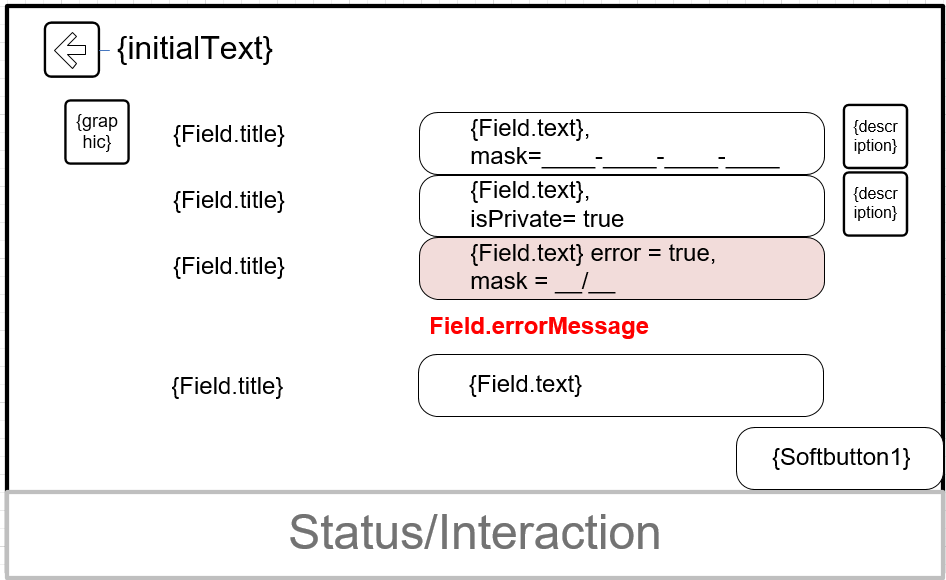
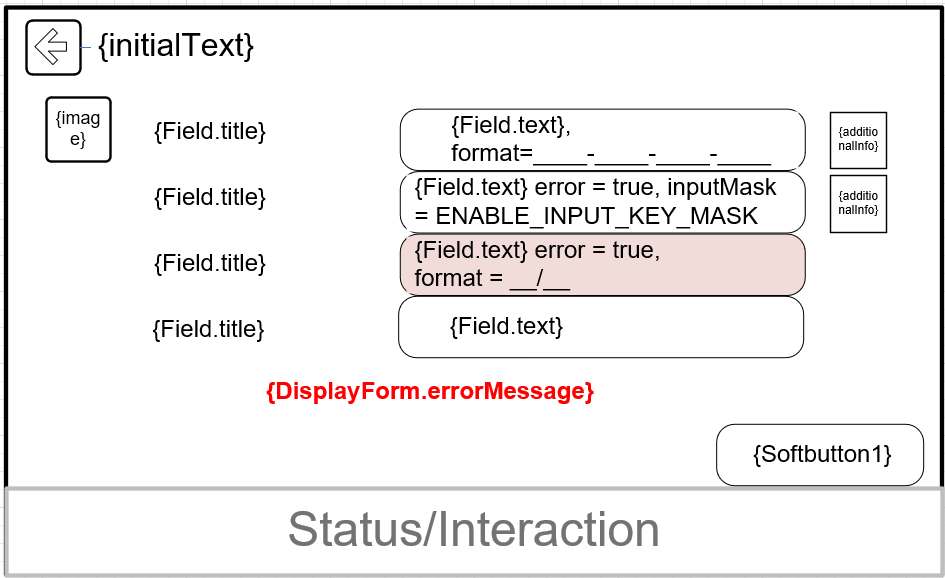
Fix 0307 conflicts (#1079)
* Update 0250-NextRpcIndication.md

* Update 0250-NextRpcIndication.md

* Add files via upload

* Add files via upload

* Add files via upload

* Overhaul per forum comments

* Spellcheck

* Update 0250-NextRpcIndication.md

* Apply suggestions from code review

Theresa updates

* Swtich from getinput to displayform

* Update 0307-GetInputScreen.md

* Update 0307-GetInputScreen.md

* Add files via upload

* Add files via upload

* Add files via upload

* Add files via upload

* Delete GetInput-1-2.PNG

* Add files via upload

* Add files via upload

* Add files via upload

* Add files via upload

* Update 0307-GetInputScreen.md

* Update 0307-GetInputScreen.md

* Update 0307-GetInputScreen.md

* added imagefieldname and textfieldname

* Update 0307-GetInputScreen.md

* Update 0307-GetInputScreen.md

* Update 0307-GetInputScreen.md

* Update 0307-GetInputScreen.md

* Update 0307-GetInputScreen.md

* Add files via upload

* Update 0307-GetInputScreen.md

* Update 0307-GetInputScreen.md

* Textfield name update

* Update 0307-GetInputScreen.md

* Update 0307-GetInputScreen.md

* SetGlobalProperties update

* Fixed mandatory but min array size 0

* minsize

* Update 0307-GetInputScreen.md

* Adding sentence to mask input characters

* Added fields to response

* Update 0307-GetInputScreen.md

* added ui.

* Update 0307-GetInputScreen.md

* Added another downside
[…]

diff --git a/proposals/0307-GetInputScreen.md b/proposals/0307-GetInputScreen.md
@@ -2,12 +2,12 @@
 
 * Proposal: [SDL-0307](0307-GetInputScreen.md)
 * Author: [Michael Crimando](https://github.com/MichaelCrimando)
-* Status: **Returned for Revisions**
+* Status: **In Review**
 * Impacted Platforms: [HMI / Core / iOS / Java Suite / JavaScript / RPC]
 
 ## Introduction
 
-This proposal adds an Input screen for apps. This enables a way for the user to sign in, put in their credit card information, put in their address and more. This is particularly focused on embedded/cloud apps because the app lives in the car and the user will still need a way to enter information without having the ability to do so on their phone.
+This proposal adds an Form screen for apps. This enables a way for the user to sign in, put in their credit card information, put in their address and more. This is particularly focused on embedded/cloud apps because the app lives in the car and the user will still need a way to enter information without having the ability to do so on their phone.
 
 ## Motivation
 
@@ -31,9 +31,9 @@ Here's more specific potential screens
 Add a new RPC for an input screen. This screen would use RPC encryption which is handled by policies.
 It contains a title, and an array of `InputLines`
 
-
+Here's the `MOBILE_API`:
 ```xml
-<function name="GetInput" functionID="GetInputID" messagetype="request" since="X.X">
+<function name="DisplayForm" functionID="DisplayFormID" messagetype="request" since="X.X">
   <param name="initialText" type="String" maxlength="500"  mandatory="true">
     <description>
       Text to be displayed first.
@@ -44,9 +44,31 @@ It contains a title, and an array of `InputLines`
       If there's a problem with the input fields, this can be used to display information.
     </description>
   </param>
-  <param name="fields" type="Common.Field" array="true" minsize="0" maxsize="100" mandatory="true">\
+  <param name="fields" type="Field" array="true" minsize="1" maxsize="100" mandatory="true">\
   </param>
-    <param name="softButtons" type="Common.SoftButton" minsize="0" maxsize="8" array="true" mandatory="false">
+    <param name="softButtons" type="SoftButton" minsize="1" maxsize="8" array="true" mandatory="false">
+    <description>
+      App defined SoftButtons for cancel, edit, submit, etc.
+    </description>
+  </param>
+</function>
+```
+and the `HMI_API`:
+```xml
+<function name="UI.DisplayForm" functionID="DisplayFormID" messagetype="request">
+  <param name="initialText" type="String" maxlength="500"  mandatory="true">
+    <description>
+      Text to be displayed first.
+    </description>
+  </param>
+  <param name="errorMessage" maxlength="500" type="String" mandatory="false">
+    <description>
+      If there's a problem with the input fields, this can be used to display information.
+    </description>
+  </param>
+  <param name="fields" type="Common.Field" array="true" minsize="1" maxsize="100" mandatory="true">\
+  </param>
+    <param name="softButtons" type="Common.SoftButton" minsize="1" maxsize="8" array="true" mandatory="false">
     <description>
       App defined SoftButtons for cancel, edit, submit, etc.
     </description>
@@ -54,18 +76,22 @@ It contains a title, and an array of `InputLines`
 </function>
 ```
 
-Add a new struct called `Field` and an enum called `FieldType` to get user input in the GetInput screen.
-This enables text input fields, numeric input fields and combo box input fields.  Text and numeric input fields would bring up a keyboard or numpad. Combo box input would bring up a drop down list of items.  
+
+
+Add a new struct called `Field` and an enum called `FieldType` to get user input in the DisplayForm screen.
+This enables text input fields, numeric input fields and combo box input fields.  Text and numeric input fields would bring up a keyboard or numpad. Combo box input would bring up a drop down list of items. If a combo box is requested, and the user doesn't pick anything, the HMI will send back the field.text and then it's up to the app on what to do.
+
+Here's the MOBILE_API:
 ```xml
 <struct name="Field">
   <description>
     A single field for data input
   </description>
-  <param name="type" type="Common.FieldType" mandatory="true">
+  <param name="type" type="FieldType" mandatory="true">
   </param>
   <param name="label" maxlength="500" type="String" mandatory="true">
   </param>
-  <param name="image" type="Common.Image" mandatory="false">
+  <param name="image" type="Image" mandatory="false">
     <description>
       An image icon for the input field
     </description>
@@ -90,7 +116,7 @@ This enables text input fields, numeric input fields and combo box input fields.
       If set to true, then the field has some problem with it and the HMI should highlight it in red.
     </description>
   </param>
-  <param name="comboBoxChoices" type="String" maxlength="500" array="true" minsize="0" maxsize="200" mandatory="false">
+  <param name="comboBoxChoices" type="String" maxlength="500" array="true" minsize="1" maxsize="200" mandatory="false">
     <description>
       List of choices if the type is COMBO_BOX. Otherwise ignored.
     </description>
@@ -102,6 +128,26 @@ This enables text input fields, numeric input fields and combo box input fields.
   </param>
 </struct>
 ```
+
+Plus the headunit can note that it supports form field text and images through `TextFieldName` and `ImageFieldName` in the `MOBILE_API`
+```xml
+   <enum name="TextFieldName" since="1.0">
+     .
+     .
+     .
+        <element name="formFieldLabel">
+            <description>If this is not present, the app may assume that DisplayForm is unsupported. If it is present, it is assumed that all features other than image are supported.
+        </element>
+   </enum>
+```
+```xml
+  <enum name="ImageFieldName" since="3.0">
+    <element name="formFieldImage">
+      <description>An image icon for the input field</description>
+    </element>
+  </enum>
+```
+
 ```xml
   <enum name="FieldType" since="X.X">
     <description>The type of input field</description>
@@ -109,33 +155,126 @@ This enables text input fields, numeric input fields and combo box input fields.
     <element name="TEXT" />
     <element name="NUMBER" />
       <description>
-        This is a notice for the HMI to bring up a keyboard, however the response for this field will still be a string.
+        This is a notice for the HMI to bring up a keypad
+      </description>
+  </enum>
+```
+
+and the `HMI_API`:
+```xml
+<struct name="Field">
+  <description>
+    A single field for data input
+  </description>
+  <param name="type" type="Common.FieldType" mandatory="true">
+  </param>
+  <param name="label" maxlength="500" type="String" mandatory="true">
+  </param>
+  <param name="image" type="Image" mandatory="false">
+    <description>
+      An image icon for the input field
+    </description>
+  </param>
+  <param name="text" maxlength="500" type="String" mandatory="false">
+    <description>
+      The text that is already present in the input field
+    </description>
+  </param>
+  <param name="format" maxlength="500" type="String" mandatory="false">
+    <description>
+      A text string used to format the input text to a certain style. Any characters except underscore will remain in the field with no way to type over them. The underscore character will represent a space that the user can type in.  E.g. A format string for phone number would be +_(___)___-____
+    </description>
+  </param>
+  <param name="additionalInfo" maxlength="500" type="String" mandatory="false">
+    <description>
+      More information that is shown by the input field
+    </description>
+  </param>
+  <param name="error" type="Boolean" mandatory="false">
+    <description>
+      If set to true, then the field has some problem with it and the HMI should highlight it in red.
+    </description>
+  </param>
+  <param name="comboBoxChoices" type="String" maxlength="500" array="true" minsize="1" maxsize="200" mandatory="false">
+    <description>
+      List of choices if the type is COMBO_BOX. Otherwise ignored.
+    </description>
+  </param>
+  <param name="inputMask" type="Common.KeyboardInputMask" mandatory="false">
+    <description>
+      Used to cover up personal information like credit card number. Defaults to "DISABLE_INPUT_KEY_MASK"
+    </description>
+  </param>
+</struct>
+```
+```xml
+  <enum name="FieldType">
+    <description>The type of input field</description>
+    <element name="COMBO_BOX" />
+    <element name="TEXT" />
+    <element name="NUMBER" />
+      <description>
+        This is a notice for the HMI to bring up a keypad.
       </description>
   </enum>
 ```
 
 Regarding the response which would be sent when the user presses a softbutton, this would use RPC encryption which is handled by policies.
 There would be one string response for each field. If a field was left empty, the associated string would be blank.
+This requires the following updates to the `MOBILE_API`:
 ```xml
-<function name="GetInput" messagetype="response">
-  <param name="fields" type="String" maxlength="500" array="true" minsize="0" maxsize="100" mandatory="true">
+<function name="DisplayForm" messagetype="response">
+  
+  <param name="success" type="Boolean" platform="documentation" mandatory="true">
+    <description> true if successful; false, if failed.</description>
+  </param>
+
+  <param name="resultCode" type="Result" platform="documentation" mandatory="true">
+    <description>See Result</description>
+    <element name="SUCCESS"/>
+    <element name="REJECTED"/>
+    <element name="INVALID_DATA"/>
+    <element name="INVALID_ID"/>
+    <element name="DUPLICATE_NAME"/>
+    <element name="DISALLOWED"/>
+    <element name="OUT_OF_MEMORY"/>
+    <element name="TOO_MANY_PENDING_REQUESTS"/>
+    <element name="APPLICATION_NOT_REGISTERED"/>
+    <element name="GENERIC_ERROR"/>
+  </param>
+  
+  <param name="info" type="String" maxlength="1000" mandatory="false" platform="documentation">
+    <description>Provides additional human readable info regarding the result.</description>
+  </param>
+  
+  <param name="fields" type="Field" maxlength="500" array="true" minsize="1" maxsize="100" mandatory="true">
     <description>
-      One string response for each field. If a field was left empty, the associated string would be blank. If the field had formatting characters, they are included in the response as well. 
+      This will return an array of Fields that have the same type and label as requested, but with the text field populated.
     </description>
   </param>
+  
 </function>
 ```
 
-We can use the `maskInputCharacters` parameter from [0238-Keyboard-Enhancements](https://github.com/smartdevicelink/sdl_evolution/blob/master/proposals/0238-Keyboard-Enhancements.md) for password or other sensitive data input.
+We can use the `maskInputCharacters` parameter from [0238-Keyboard-Enhancements](https://github.com/smartdevicelink/sdl_evolution/blob/master/proposals/0238-Keyboard-Enhancements.md) for password or other sensitive data input. The main goal of this is to leverage an existing enum to help us out. `maskInputCharacters` mask will override `KeyboardProperties.maskInputCharacters` in `SetGlobalProperties`. All other keyboard-related items in `SetGlobalProperties` will work normally.
+
+### Error Flow
+To clarify the error flow a bit, heres a sequence diagram
+
+<img src="../assets/proposals/0307-GetInput/GetInput-ErrorFlow.PNG" alt="Login Screen" class="inline" /> 
+
 
 ## Potential downsides
 
-This adds complexity to Mobile Libraries, JavaScript Library, Core and the HMI.
+1. This adds complexity to Mobile Libraries, JavaScript Library, Core and the HMI.
+2. This form process does not support OAuth logins (like Google, Apple, or Facebook).
+3. This proposal doesn't include any manager changes, which would be useful for helping app partners use this feature.
 
 ## Impact on existing code
 
 It's a new parameter so this would not affect older SDL versions.
 It would be a minor version change for affected mobile libraries. 
+This is dependent on [0238-Keyboard-Enhancements](https://github.com/smartdevicelink/sdl_evolution/blob/master/proposals/0238-Keyboard-Enhancements.md)
 
 ## Alternatives considered
 
